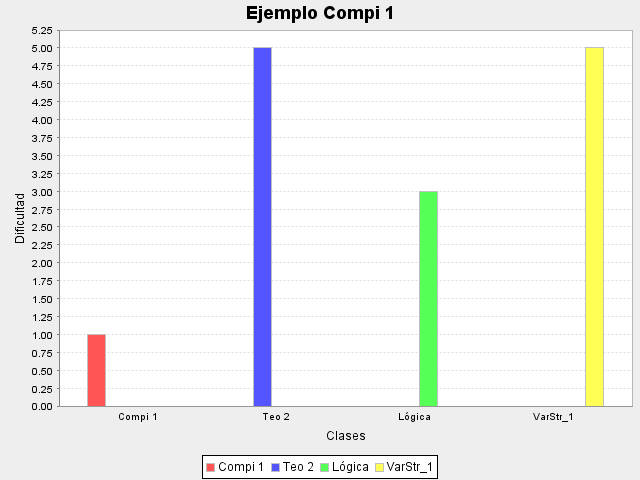
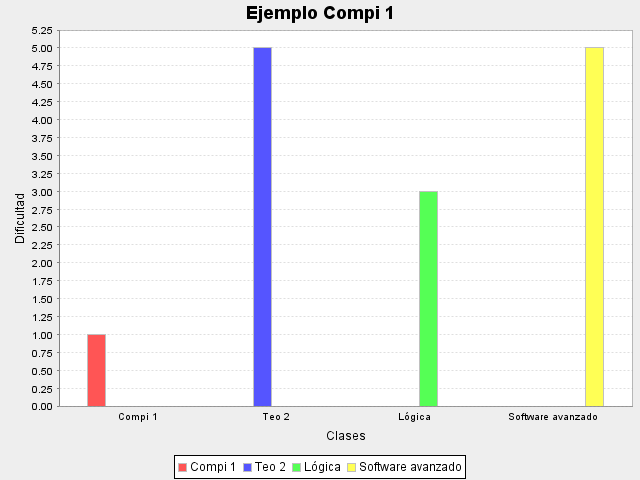
Reporte Tokens y Errores
Agregada la funcionalidad para reportar errores y tokens

Changed region(s): [[0.25, 0.9375, 0.7188, 1.0], [0.7812, 0.8438, 0.9375, 0.875]]

diff --git a/tokens.html b/tokens.html
@@ -1,0 +1,22 @@
+<!DOCTYPE html>
+<html>
+<head>
+<title>Reporte de Tokens</title>
+</head>
+<body>
+<h1 align="center">Reporte de Tokens</h1>
+<style type="text/css">
+.tg  {border-collapse:collapse;border-spacing:0;margin:0px auto;}
+.tg td{font-family:Arial, sans-serif;font-size:14px;padding:10px 5px;border-style:solid;border-width:1px;overflow:hidden;word-break:normal;border-color:black;}
+.tg th{font-family:Arial, sans-serif;font-size:14px;font-weight:normal;padding:10px 5px;border-style:solid;border-width:1px;overflow:hidden;word-break:normal;border-color:black;}
+.tg .tg-4tse{background-color:#32cb00;color:#000000;text-align:left;vertical-align:top}
+.tg .tg-0lax{text-align:left;vertical-align:top}
+h1{font-family:Arial, sans-serif}
+</style><table class="tg"><tr>
+<th class="tg-4tse">No</th>
+<th class="tg-4tse">Lexema</th>
+<th class="tg-4tse">Tipo</th>
+<th class="tg-4tse">Columna</th>
+<th class="tg-4tse">Linea</th>
+</tr><tr><td class="tg-0Lax">0<br></td><td Class="tg-0Lax">DefinirGlobales</td><td class="tg-0Lax">definirglobales</td><td Class="tg-0Lax">0</td><td class="tg-0Lax">0</td></tr><tr><td class="tg-0Lax">0<br></td><td Class="tg-0Lax">{</td><td class="tg-0Lax">llaveabre</td><td Class="tg-0Lax">0</td><td class="tg-0Lax">1</td></tr><tr><td class="tg-0Lax">0<br></td><td Class="tg-0Lax">int</td><td class="tg-0Lax">entero</td><td Class="tg-0Lax">4</td><td class="tg-0Lax">2</td></tr><tr><td class="tg-0Lax">0<br></td><td Class="tg-0Lax">a</td><td class="tg-0Lax">identificador</td><td Class="tg-0Lax">8</td><td class="tg-0Lax">2</td></tr><tr><td class="tg-0Lax">0<br></td><td Class="tg-0Lax">=</td><td class="tg-0Lax">igual</td><td Class="tg-0Lax">10</td><td class="tg-0Lax">2</td></tr><tr><td class="tg-0Lax">0<br></td><td Class="tg-0Lax">100</td><td class="tg-0Lax">numero100</td><td Class="tg-0Lax">12</td><td class="tg-0Lax">2</td></tr><tr><td class="tg-0Lax">0<br></td><td Class="tg-0Lax">;</td><td class="tg-0Lax">puntoycoma</td><td Class="tg-0Lax">15</td><td class="tg-0Lax">2</td></tr><tr><td class="tg-0Lax">0<br></td><td Class="tg-0Lax">string</td><td class="tg-0Lax">str</td><td Class="tg-0Lax">4</td><td class="tg-0Lax">3</td></tr><tr><td class="tg-0Lax">0<br></td><td Class="tg-0Lax">var1</td><td class="tg-0Lax">identificador</td><td Class="tg-0Lax">11</td><td class="tg-0Lax">3</td></tr><tr><td class="tg-0Lax">0<br></td><td Class="tg-0Lax">=</td><td class="tg-0Lax">igual</td><td Class="tg-0Lax">16</td><td class="tg-0Lax">3</td></tr><tr><td class="tg-0Lax">0<br></td><td Class="tg-0Lax">"</td><td class="tg-0Lax">comillaabre</td><td Class="tg-0Lax">18</td><td class="tg-0Lax">3</td></tr><tr><td class="tg-0Lax">0<br></td><td Class="tg-0Lax">Ejemplo Compi 1</td><td class="tg-0Lax">cadena</td><td Class="tg-0Lax">34</td><td class="tg-0Lax">3</td></tr><tr><td class="tg-0Lax">0<br></td><td Class="tg-0Lax">"</td><td class="tg-0Lax">comillacierra</td><td Class="tg-0Lax">34</td><td class="tg-0Lax">3</td></tr><tr><td class="tg-0Lax">0<br></td><td Class="tg-0Lax">;</td><td class="tg-0Lax">puntoycoma</td><td Class="tg-0Lax">35</td><td class="tg-0Lax">3</td></tr><tr><td class="tg-0Lax">0<br></td><td Class="tg-0Lax">string</td><td class="tg-0Lax">str</td><td Class="tg-0Lax">4</td><td class="tg-0Lax">4</td></tr><tr><td class="tg-0Lax">0<br></td><td Class="tg-0Lax">varString1</td><td class="tg-0Lax">identificador</td><td Class="tg-0Lax">11</td><td class="tg-0Lax">4</td></tr><tr><td class="tg-0Lax">0<br></td><td Class="tg-0Lax">=</td><td class="tg-0Lax">igual</td><td Class="tg-0Lax">22</td><td class="tg-0Lax">4</td></tr><tr><td class="tg-0Lax">0<br></td><td Class="tg-0Lax">"</td><td class="tg-0Lax">comillaabre</td><td Class="tg-0Lax">24</td><td class="tg-0Lax">4</td></tr><tr><td class="tg-0Lax">0<br></td><td Class="tg-0Lax">Dificultad</td><td class="tg-0Lax">cadena</td><td Class="tg-0Lax">35</td><td class="tg-0Lax">4</td></tr><tr><td class="tg-0Lax">0<br></td><td Class="tg-0Lax">"</td><td class="tg-0Lax">comillacierra</td><td Class="tg-0Lax">35</td><td class="tg-0Lax">4</td></tr><tr><td class="tg-0Lax">0<br></td><td Class="tg-0Lax">;</td><td class="tg-0Lax">puntoycoma</td><td Class="tg-0Lax">36</td><td class="tg-0Lax">4</td></tr><tr><td class="tg-0Lax">0<br></td><td Class="tg-0Lax">int</td><td class="tg-0Lax">entero</td><td Class="tg-0Lax">4</td><td class="tg-0Lax">5</td></tr><tr><td class="tg-0Lax">0<br></td><td Class="tg-0Lax">Variable1</td><td class="tg-0Lax">identificador</td><td Class="tg-0Lax">8</td><td class="tg-0Lax">5</td></tr><tr><td class="tg-0Lax">0<br></td><td Class="tg-0Lax">=</td><td class="tg-0Lax">igual</td><td Class="tg-0Lax">18</td><td class="tg-0Lax">5</td></tr><tr><td class="tg-0Lax">0<br></td><td Class="tg-0Lax">4</td><td class="tg-0Lax">numero4</td><td Class="tg-0Lax">20</td><td class="tg-0Lax">5</td></tr><tr><td class="tg-0Lax">0<br></td><td Class="tg-0Lax">*</td><td class="tg-0Lax">multiplicacion</td><td Class="tg-0Lax">21</td><td class="tg-0Lax">5</td></tr><tr><td class="tg-0Lax">0<br></td><td Class="tg-0Lax">5</td><td class="tg-0Lax">numero5</td><td Class="tg-0Lax">22</td><td class="tg-0Lax">5</td></tr><tr><td class="tg-0Lax">0<br></td><td Class="tg-0Lax">;</td><td class="tg-0Lax">puntoycoma</td><td Class="tg-0Lax">23</td><td class="tg-0Lax">5</td></tr><tr><td class="tg-0Lax">0<br></td><td Class="tg-0Lax">string</td><td class="tg-0Lax">str</td><td Class="tg-0Lax">4</td><td class="tg-0Lax">6</td></tr><tr><td class="tg-0Lax">0<br></td><td Class="tg-0Lax">VarStr_1</td><td class="tg-0Lax">identificador</td><td Class="tg-0Lax">11</td><td class="tg-0Lax">6</td></tr><tr><td class="tg-0Lax">0<br></td><td Class="tg-0Lax">=</td><td class="tg-0Lax">igual</td><td Class="tg-0Lax">20</td><td class="tg-0Lax">6</td></tr><tr><td class="tg-0Lax">0<br></td><td Class="tg-0Lax">"</td><td class="tg-0Lax">comillaabre</td><td Class="tg-0Lax">22</td><td class="tg-0Lax">6</td></tr><tr><td class="tg-0Lax">0<br></td><td Class="tg-0Lax">Software avanzado</td><td class="tg-0Lax">cadena</td><td Class="tg-0Lax">40</td><td class="tg-0Lax">6</td></tr><tr><td class="tg-0Lax">0<br></td><td Class="tg-0Lax">"</td><td class="tg-0Lax">comillacierra</td><td Class="tg-0Lax">40</td><td class="tg-0Lax">6</td></tr><tr><td class="tg-0Lax">0<br></td><td Class="tg-0Lax">;</td><td class="tg-0Lax">puntoycoma</td><td Class="tg-0Lax">41</td><td class="tg-0Lax">6</td></tr><tr><td class="tg-0Lax">0<br></td><td Class="tg-0Lax">}</td><td class="tg-0Lax">llavecierra</td><td Class="tg-0Lax">0</td><td class="tg-0Lax">7</td></tr><tr><td class="tg-0Lax">0<br></td><td Class="tg-0Lax">GraficaBarras</td><td class="tg-0Lax">graficabarras</td><td Class="tg-0Lax">0</td><td class="tg-0Lax">9</td></tr><tr><td class="tg-0Lax">0<br></td><td Class="tg-0Lax">{</td><td class="tg-0Lax">llaveabre</td><td Class="tg-0Lax">0</td><td class="tg-0Lax">10</td></tr><tr><td class="tg-0Lax">0<br></td><td Class="tg-0Lax">ID</td><td class="tg-0Lax">id</td><td Class="tg-0Lax">4</td><td class="tg-0Lax">11</td></tr><tr><td class="tg-0Lax">0<br></td><td Class="tg-0Lax">:</td><td class="tg-0Lax">dospuntos</td><td Class="tg-0Lax">6</td><td class="tg-0Lax">11</td></tr><tr><td class="tg-0Lax">0<br></td><td Class="tg-0Lax">"</td><td class="tg-0Lax">comillaabre</td><td Class="tg-0Lax">8</td><td class="tg-0Lax">11</td></tr><tr><td class="tg-0Lax">0<br></td><td Class="tg-0Lax">Prueba1.PNG</td><td class="tg-0Lax">cadena</td><td Class="tg-0Lax">20</td><td class="tg-0Lax">11</td></tr><tr><td class="tg-0Lax">0<br></td><td Class="tg-0Lax">"</td><td class="tg-0Lax">comillacierra</td><td Class="tg-0Lax">20</td><td class="tg-0Lax">11</td></tr><tr><td class="tg-0Lax">0<br></td><td Class="tg-0Lax">;</td><td class="tg-0Lax">puntoycoma</td><td Class="tg-0Lax">21</td><td class="tg-0Lax">11</td></tr><tr><td class="tg-0Lax">0<br></td><td Class="tg-0Lax">Titulo</td><td class="tg-0Lax">titulo</td><td Class="tg-0Lax">4</td><td class="tg-0Lax">12</td></tr><tr><td class="tg-0Lax">0<br></td><td Class="tg-0Lax">:</td><td class="tg-0Lax">dospuntos</td><td Class="tg-0Lax">10</td><td class="tg-0Lax">12</td></tr><tr><td class="tg-0Lax">0<br></td><td Class="tg-0Lax">"</td><td class="tg-0Lax">comillaabre</td><td Class="tg-0Lax">12</td><td class="tg-0Lax">12</td></tr><tr><td class="tg-0Lax">0<br></td><td Class="tg-0Lax">Es Prueba</td><td class="tg-0Lax">cadena</td><td Class="tg-0Lax">22</td><td class="tg-0Lax">12</td></tr><tr><td class="tg-0Lax">0<br></td><td Class="tg-0Lax">"</td><td class="tg-0Lax">comillacierra</td><td Class="tg-0Lax">22</td><td class="tg-0Lax">12</td></tr><tr><td class="tg-0Lax">0<br></td><td Class="tg-0Lax">;</td><td class="tg-0Lax">puntoycoma</td><td Class="tg-0Lax">23</td><td class="tg-0Lax">12</td></tr><tr><td class="tg-0Lax">0<br></td><td Class="tg-0Lax">TituloY</td><td class="tg-0Lax">tituloy</td><td Class="tg-0Lax">4</td><td class="tg-0Lax">13</td></tr><tr><td class="tg-0Lax">0<br></td><td Class="tg-0Lax">:</td><td class="tg-0Lax">dospuntos</td><td Class="tg-0Lax">11</td><td class="tg-0Lax">13</td></tr><tr><td class="tg-0Lax">0<br></td><td Class="tg-0Lax">"</td><td class="tg-0Lax">comillaabre</td><td Class="tg-0Lax">13</td><td class="tg-0Lax">13</td></tr><tr><td class="tg-0Lax">0<br></td><td Class="tg-0Lax">Eje Y</td><td class="tg-0Lax">cadena</td><td Class="tg-0Lax">19</td><td class="tg-0Lax">13</td></tr><tr><td class="tg-0Lax">0<br></td><td Class="tg-0Lax">"</td><td class="tg-0Lax">comillacierra</td><td Class="tg-0Lax">19</td><td class="tg-0Lax">13</td></tr><tr><td class="tg-0Lax">0<br></td><td Class="tg-0Lax">;</td><td class="tg-0Lax">puntoycoma</td><td Class="tg-0Lax">20</td><td class="tg-0Lax">13</td></tr><tr><td class="tg-0Lax">0<br></td><td Class="tg-0Lax">TituloX</td><td class="tg-0Lax">titulox</td><td Class="tg-0Lax">4</td><td class="tg-0Lax">14</td></tr><tr><td class="tg-0Lax">0<br></td><td Class="tg-0Lax">:</td><td class="tg-0Lax">dospuntos</td><td Class="tg-0Lax">11</td><td class="tg-0Lax">14</td></tr><tr><td class="tg-0Lax">0<br></td><td Class="tg-0Lax">"</td><td class="tg-0Lax">comillaabre</td><td Class="tg-0Lax">13</td><td class="tg-0Lax">14</td></tr><tr><td class="tg-0Lax">0<br></td><td Class="tg-0Lax">Eje X</td><td class="tg-0Lax">cadena</td><td Class="tg-0Lax">19</td><td class="tg-0Lax">14</td></tr><tr><td class="tg-0Lax">0<br></td><td Class="tg-0Lax">"</td><td class="tg-0Lax">comillacierra</td><td Class="tg-0Lax">19</td><td class="tg-0Lax">14</td></tr><tr><td class="tg-0Lax">0<br></td><td Class="tg-0Lax">;</td><td class="tg-0Lax">puntoycoma</td><td Class="tg-0Lax">20</td><td class="tg-0Lax">14</td></tr><tr><td class="tg-0Lax">0<br></td><td Class="tg-0Lax">ejeX</td><td class="tg-0Lax">ejex</td><td Class="tg-0Lax">4</td><td class="tg-0Lax">15</td></tr><tr><td class="tg-0Lax">0<br></td><td Class="tg-0Lax">:</td><td class="tg-0Lax">dospuntos</td><td Class="tg-0Lax">8</td><td class="tg-0Lax">15</td></tr><tr><td class="tg-0Lax">0<br></td><td Class="tg-0Lax">[</td><td class="tg-0Lax">corcheteabre</td><td Class="tg-0Lax">10</td><td class="tg-0Lax">15</td></tr><tr><td class="tg-0Lax">0<br></td><td Class="tg-0Lax">"</td><td class="tg-0Lax">comillaabre</td><td Class="tg-0Lax">11</td><td class="tg-0Lax">15</td></tr><tr><td class="tg-0Lax">0<br></td><td Class="tg-0Lax">X1</td><td class="tg-0Lax">cadena</td><td Class="tg-0Lax">14</td><td class="tg-0Lax">15</td></tr><tr><td class="tg-0Lax">0<br></td><td Class="tg-0Lax">"</td><td class="tg-0Lax">comillacierra</td><td Class="tg-0Lax">14</td><td class="tg-0Lax">15</td></tr><tr><td class="tg-0Lax">0<br></td><td Class="tg-0Lax">,</td><td class="tg-0Lax">coma</td><td Class="tg-0Lax">15</td><td class="tg-0Lax">15</td></tr><tr><td class="tg-0Lax">0<br></td><td Class="tg-0Lax">"</td><td class="tg-0Lax">comillaabre</td><td Class="tg-0Lax">17</td><td class="tg-0Lax">15</td></tr><tr><td class="tg-0Lax">0<br></td><td Class="tg-0Lax">X2</td><td class="tg-0Lax">cadena</td><td Class="tg-0Lax">20</td><td class="tg-0Lax">15</td></tr><tr><td class="tg-0Lax">0<br></td><td Class="tg-0Lax">"</td><td class="tg-0Lax">comillacierra</td><td Class="tg-0Lax">20</td><td class="tg-0Lax">15</td></tr><tr><td class="tg-0Lax">0<br></td><td Class="tg-0Lax">,</td><td class="tg-0Lax">coma</td><td Class="tg-0Lax">21</td><td class="tg-0Lax">15</td></tr><tr><td class="tg-0Lax">0<br></td><td Class="tg-0Lax">"</td><td class="tg-0Lax">comillaabre</td><td Class="tg-0Lax">23</td><td class="tg-0Lax">15</td></tr><tr><td class="tg-0Lax">0<br></td><td Class="tg-0Lax">X3</td><td class="tg-0Lax">cadena</td><td Class="tg-0Lax">26</td><td class="tg-0Lax">15</td></tr><tr><td class="tg-0Lax">0<br></td><td Class="tg-0Lax">"</td><td class="tg-0Lax">comillacierra</td><td Class="tg-0Lax">26</td><td class="tg-0Lax">15</td></tr><tr><td class="tg-0Lax">0<br></td><td Class="tg-0Lax">,</td><td class="tg-0Lax">coma</td><td Class="tg-0Lax">27</td><td class="tg-0Lax">15</td></tr><tr><td class="tg-0Lax">0<br></td><td Class="tg-0Lax">"</td><td class="tg-0Lax">comillaabre</td><td Class="tg-0Lax">29</td><td class="tg-0Lax">15</td></tr><tr><td class="tg-0Lax">0<br></td><td Class="tg-0Lax">Xk</td><td class="tg-0Lax">cadena</td><td Class="tg-0Lax">32</td><td class="tg-0Lax">15</td></tr><tr><td class="tg-0Lax">0<br></td><td Class="tg-0Lax">"</td><td class="tg-0Lax">comillacierra</td><td Class="tg-0Lax">32</td><td class="tg-0Lax">15</td></tr><tr><td class="tg-0Lax">0<br></td><td Class="tg-0Lax">]</td><td class="tg-0Lax">corchetecierra</td><td Class="tg-0Lax">33</td><td class="tg-0Lax">15</td></tr><tr><td class="tg-0Lax">0<br></td><td Class="tg-0Lax">;</td><td class="tg-0Lax">puntoycoma</td><td Class="tg-0Lax">34</td><td class="tg-0Lax">15</td></tr><tr><td class="tg-0Lax">0<br></td><td Class="tg-0Lax">EjeY</td><td class="tg-0Lax">ejey</td><td Class="tg-0Lax">4</td><td class="tg-0Lax">16</td></tr><tr><td class="tg-0Lax">0<br></td><td Class="tg-0Lax">:</td><td class="tg-0Lax">dospuntos</td><td Class="tg-0Lax">8</td><td class="tg-0Lax">16</td></tr><tr><td class="tg-0Lax">0<br></td><td Class="tg-0Lax">[</td><td class="tg-0Lax">corcheteabre</td><td Class="tg-0Lax">10</td><td class="tg-0Lax">16</td></tr><tr><td class="tg-0Lax">0<br></td><td Class="tg-0Lax">5</td><td class="tg-0Lax">numero5</td><td Class="tg-0Lax">11</td><td class="tg-0Lax">16</td></tr><tr><td class="tg-0Lax">0<br></td><td Class="tg-0Lax">,</td><td class="tg-0Lax">coma</td><td Class="tg-0Lax">12</td><td class="tg-0Lax">16</td></tr><tr><td class="tg-0Lax">0<br></td><td Class="tg-0Lax">10</td><td class="tg-0Lax">numero10</td><td Class="tg-0Lax">14</td><td class="tg-0Lax">16</td></tr><tr><td class="tg-0Lax">0<br></td><td Class="tg-0Lax">,</td><td class="tg-0Lax">coma</td><td Class="tg-0Lax">16</td><td class="tg-0Lax">16</td></tr><tr><td class="tg-0Lax">0<br></td><td Class="tg-0Lax">15</td><td class="tg-0Lax">numero15</td><td Class="tg-0Lax">18</td><td class="tg-0Lax">16</td></tr><tr><td class="tg-0Lax">0<br></td><td Class="tg-0Lax">,</td><td class="tg-0Lax">coma</td><td Class="tg-0Lax">20</td><td class="tg-0Lax">16</td></tr><tr><td class="tg-0Lax">0<br></td><td Class="tg-0Lax">20</td><td class="tg-0Lax">numero20</td><td Class="tg-0Lax">22</td><td class="tg-0Lax">16</td></tr><tr><td class="tg-0Lax">0<br></td><td Class="tg-0Lax">,</td><td class="tg-0Lax">coma</td><td Class="tg-0Lax">24</td><td class="tg-0Lax">16</td></tr><tr><td class="tg-0Lax">0<br></td><td Class="tg-0Lax">25</td><td class="tg-0Lax">numero25</td><td Class="tg-0Lax">26</td><td class="tg-0Lax">16</td></tr><tr><td class="tg-0Lax">0<br></td><td Class="tg-0Lax">,</td><td class="tg-0Lax">coma</td><td Class="tg-0Lax">28</td><td class="tg-0Lax">16</td></tr><tr><td class="tg-0Lax">0<br></td><td Class="tg-0Lax">30</td><td class="tg-0Lax">numero30</td><td Class="tg-0Lax">30</td><td class="tg-0Lax">16</td></tr><tr><td class="tg-0Lax">0<br></td><td Class="tg-0Lax">]</td><td class="tg-0Lax">corchetecierra</td><td Class="tg-0Lax">32</td><td class="tg-0Lax">16</td></tr><tr><td class="tg-0Lax">0<br></td><td Class="tg-0Lax">;</td><td class="tg-0Lax">puntoycoma</td><td Class="tg-0Lax">33</td><td class="tg-0Lax">16</td></tr><tr><td class="tg-0Lax">0<br></td><td Class="tg-0Lax">Puntosxy</td><td class="tg-0Lax">puntosxy</td><td Class="tg-0Lax">4</td><td class="tg-0Lax">17</td></tr><tr><td class="tg-0Lax">0<br></td><td Class="tg-0Lax">:</td><td class="tg-0Lax">dospuntos</td><td Class="tg-0Lax">12</td><td class="tg-0Lax">17</td></tr><tr><td class="tg-0Lax">0<br></td><td Class="tg-0Lax">[</td><td class="tg-0Lax">corcheteabre</td><td Class="tg-0Lax">14</td><td class="tg-0Lax">17</td></tr><tr><td class="tg-0Lax">0<br></td><td Class="tg-0Lax">{</td><td class="tg-0Lax">llaveabre</td><td Class="tg-0Lax">15</td><td class="tg-0Lax">17</td></tr><tr><td class="tg-0Lax">0<br></td><td Class="tg-0Lax">0</td><td class="tg-0Lax">numero0</td><td Class="tg-0Lax">16</td><td class="tg-0Lax">17</td></tr><tr><td class="tg-0Lax">0<br></td><td Class="tg-0Lax">,</td><td class="tg-0Lax">coma</td><td Class="tg-0Lax">17</td><td class="tg-0Lax">17</td></tr><tr><td class="tg-0Lax">0<br></td><td Class="tg-0Lax">2</td><td class="tg-0Lax">numero2</td><td Class="tg-0Lax">18</td><td class="tg-0Lax">17</td></tr><tr><td class="tg-0Lax">0<br></td><td Class="tg-0Lax">}</td><td class="tg-0Lax">llavecierra</td><td Class="tg-0Lax">19</td><td class="tg-0Lax">17</td></tr><tr><td class="tg-0Lax">0<br></td><td Class="tg-0Lax">,</td><td class="tg-0Lax">coma</td><td Class="tg-0Lax">20</td><td class="tg-0Lax">17</td></tr><tr><td class="tg-0Lax">0<br></td><td Class="tg-0Lax">{</td><td class="tg-0Lax">llaveabre</td><td Class="tg-0Lax">22</td><td class="tg-0Lax">17</td></tr><tr><td class="tg-0Lax">0<br></td><td Class="tg-0Lax">1</td><td class="tg-0Lax">numero1</td><td Class="tg-0Lax">23</td><td class="tg-0Lax">17</td></tr><tr><td class="tg-0Lax">0<br></td><td Class="tg-0Lax">,</td><td class="tg-0Lax">coma</td><td Class="tg-0Lax">24</td><td class="tg-0Lax">17</td></tr><tr><td class="tg-0Lax">0<br></td><td Class="tg-0Lax">3</td><td class="tg-0Lax">numero3</td><td Class="tg-0Lax">25</td><td class="tg-0Lax">17</td></tr><tr><td class="tg-0Lax">0<br></td><td Class="tg-0Lax">}</td><td class="tg-0Lax">llavecierra</td><td Class="tg-0Lax">26</td><td class="tg-0Lax">17</td></tr><tr><td class="tg-0Lax">0<br></td><td Class="tg-0Lax">,</td><td class="tg-0Lax">coma</td><td Class="tg-0Lax">27</td><td class="tg-0Lax">17</td></tr><tr><td class="tg-0Lax">0<br></td><td Class="tg-0Lax">{</td><td class="tg-0Lax">llaveabre</td><td Class="tg-0Lax">29</td><td class="tg-0Lax">17</td></tr><tr><td class="tg-0Lax">0<br></td><td Class="tg-0Lax">2</td><td class="tg-0Lax">numero2</td><td Class="tg-0Lax">30</td><td class="tg-0Lax">17</td></tr><tr><td class="tg-0Lax">0<br></td><td Class="tg-0Lax">,</td><td class="tg-0Lax">coma</td><td Class="tg-0Lax">31</td><td class="tg-0Lax">17</td></tr><tr><td class="tg-0Lax">0<br></td><td Class="tg-0Lax">0</td><td class="tg-0Lax">numero0</td><td Class="tg-0Lax">33</td><td class="tg-0Lax">17</td></tr><tr><td class="tg-0Lax">0<br></td><td Class="tg-0Lax">}</td><td class="tg-0Lax">llavecierra</td><td Class="tg-0Lax">34</td><td class="tg-0Lax">17</td></tr><tr><td class="tg-0Lax">0<br></td><td Class="tg-0Lax">,</td><td class="tg-0Lax">coma</td><td Class="tg-0Lax">35</td><td class="tg-0Lax">17</td></tr><tr><td class="tg-0Lax">0<br></td><td Class="tg-0Lax">{</td><td class="tg-0Lax">llaveabre</td><td Class="tg-0Lax">36</td><td class="tg-0Lax">17</td></tr><tr><td class="tg-0Lax">0<br></td><td Class="tg-0Lax">3</td><td class="tg-0Lax">numero3</td><td Class="tg-0Lax">37</td><td class="tg-0Lax">17</td></tr><tr><td class="tg-0Lax">0<br></td><td Class="tg-0Lax">,</td><td class="tg-0Lax">coma</td><td Class="tg-0Lax">38</td><td class="tg-0Lax">17</td></tr><tr><td class="tg-0Lax">0<br></td><td Class="tg-0Lax">5</td><td class="tg-0Lax">numero5</td><td Class="tg-0Lax">39</td><td class="tg-0Lax">17</td></tr><tr><td class="tg-0Lax">0<br></td><td Class="tg-0Lax">}</td><td class="tg-0Lax">llavecierra</td><td Class="tg-0Lax">40</td><td class="tg-0Lax">17</td></tr><tr><td class="tg-0Lax">0<br></td><td Class="tg-0Lax">]</td><td class="tg-0Lax">corchetecierra</td><td Class="tg-0Lax">41</td><td class="tg-0Lax">17</td></tr><tr><td class="tg-0Lax">0<br></td><td Class="tg-0Lax">;</td><td class="tg-0Lax">puntoycoma</td><td Class="tg-0Lax">42</td><td class="tg-0Lax">17</td></tr><tr><td class="tg-0Lax">0<br></td><td Class="tg-0Lax">}</td><td class="tg-0Lax">llavecierra</td><td Class="tg-0Lax">0</td><td class="tg-0Lax">18</td></tr><tr><td class="tg-0Lax">0<br></td><td Class="tg-0Lax">GraficaBarras</td><td class="tg-0Lax">graficabarras</td><td Class="tg-0Lax">0</td><td class="tg-0Lax">20</td></tr><tr><td class="tg-0Lax">0<br></td><td Class="tg-0Lax">{</td><td class="tg-0Lax">llaveabre</td><td Class="tg-0Lax">0</td><td class="tg-0Lax">21</td></tr><tr><td class="tg-0Lax">0<br></td><td Class="tg-0Lax">ID</td><td class="tg-0Lax">id</td><td Class="tg-0Lax">4</td><td class="tg-0Lax">22</td></tr><tr><td class="tg-0Lax">0<br></td><td Class="tg-0Lax">:</td><td class="tg-0Lax">dospuntos</td><td Class="tg-0Lax">6</td><td class="tg-0Lax">22</td></tr><tr><td class="tg-0Lax">0<br></td><td Class="tg-0Lax">"</td><td class="tg-0Lax">comillaabre</td><td Class="tg-0Lax">8</td><td class="tg-0Lax">22</td></tr><tr><td class="tg-0Lax">0<br></td><td Class="tg-0Lax">GraficaResultados.PNG</td><td class="tg-0Lax">cadena</td><td Class="tg-0Lax">30</td><td class="tg-0Lax">22</td></tr><tr><td class="tg-0Lax">0<br></td><td Class="tg-0Lax">"</td><td class="tg-0Lax">comillacierra</td><td Class="tg-0Lax">30</td><td class="tg-0Lax">22</td></tr><tr><td class="tg-0Lax">0<br></td><td Class="tg-0Lax">;</td><td class="tg-0Lax">puntoycoma</td><td Class="tg-0Lax">31</td><td class="tg-0Lax">22</td></tr><tr><td class="tg-0Lax">0<br></td><td Class="tg-0Lax">Nombre</td><td class="tg-0Lax">nombre</td><td Class="tg-0Lax">34</td><td class="tg-0Lax">22</td></tr></body>
+</html>

diff --git a/errores.html b/errores.html
@@ -1,0 +1,22 @@
+<!DOCTYPE html>
+<html>
+<head>
+<title>Reporte de Errores</title>
+</head>
+<body>
+<h1 align="center">Reporte de Errores</h1>
+<style type="text/css">
+.tg  {border-collapse:collapse;border-spacing:0;margin:0px auto;}
+.tg td{font-family:Arial, sans-serif;font-size:14px;padding:10px 5px;border-style:solid;border-width:1px;overflow:hidden;word-break:normal;border-color:black;}
+.tg th{font-family:Arial, sans-serif;font-size:14px;font-weight:normal;padding:10px 5px;border-style:solid;border-width:1px;overflow:hidden;word-break:normal;border-color:black;}
+.tg .tg-4tse{background-color:#cb0d00;color:#000000;text-align:left;vertical-align:top}
+.tg .tg-0lax{text-align:left;vertical-align:top}
+h1{font-family:Arial, sans-serif}
+</style><table class="tg"><tr>
+<th class="tg-4tse">No</th>
+<th class="tg-4tse">Lexema</th>
+<th class="tg-4tse">Tipo</th>
+<th class="tg-4tse">Columna</th>
+<th class="tg-4tse">Linea</th>
+</tr><tr><td class="tg-0Lax">0<br></td><td Class="tg-0Lax">Nombre</td><td class="tg-0Lax">ERROR SINTACTICO - NO SE ESPERABA ESTE SIMBOLO</td><td Class="tg-0Lax">36</td><td class="tg-0Lax">22</td></tr><tr><td class="tg-0Lax">0<br></td><td Class="tg-0Lax">Nombre</td><td class="tg-0Lax">ERROR SINTACTICO IRRECUPERABLE - SIMBOLO NO RECONODIO</td><td Class="tg-0Lax">36</td><td class="tg-0Lax">22</td></tr></body>
+</html>

diff --git a/src/sistema/graficas/GraficarTokens.java b/src/sistema/graficas/GraficarTokens.java
@@ -1,0 +1,67 @@
+/*
+ * To change this license header, choose License Headers in Project Properties.
+ * To change this template file, choose Tools | Templates
+ * and open the template in the editor.
+ */
+package sistema.graficas;
+
+import java.io.BufferedWriter;
+import java.io.FileWriter;
+import main.Main;
+import sistema.bean.Token;
+
+/**
+ *
+ * @author bruno
+ */
+public class GraficarTokens {
+    public void graficarListaTokens(){
+        try{
+            if(Main.tokens.size() != 0){
+                BufferedWriter writer = new BufferedWriter(new FileWriter("tokens.html", false));
+                writer.write("<!DOCTYPE html>\n<html>\n<head>\n<title>Reporte de Tokens</title>\n</head>\n<body>\n<h1 align=\"center\">Reporte de Tokens</h1>\n<style type=\"text/css\">\n.tg  {border-collapse:collapse;border-spacing:0;margin:0px auto;}\n.tg td{font-family:Arial, sans-serif;font-size:14px;padding:10px 5px;border-style:solid;border-width:1px;overflow:hidden;word-break:normal;border-color:black;}\n.tg th{font-family:Arial, sans-serif;font-size:14px;font-weight:normal;padding:10px 5px;border-style:solid;border-width:1px;overflow:hidden;word-break:normal;border-color:black;}\n.tg .tg-4tse{background-color:#32cb00;color:#000000;text-align:left;vertical-align:top}\n.tg .tg-0lax{text-align:left;vertical-align:top}\nh1{font-family:Arial, sans-serif}\n</style>");
+                writer.write("<table class=\"tg\">");
+                writer.write("<tr>\n<th class=\"tg-4tse\">No</th>\n<th class=\"tg-4tse\">Lexema</th>\n<th class=\"tg-4tse\">Tipo</th>\n<th class=\"tg-4tse\">Columna</th>\n<th class=\"tg-4tse\">Linea</th>\n</tr>");
+                int i = 0;
+                for (Token token : Main.tokens) {
+                    writer.write("<tr>");
+                    writer.write("<td class=\"tg-0Lax\">" + i++ + "<br></td>");
+                    writer.write("<td Class=\"tg-0Lax\">" + token.getLexema() + "</td>");
+                    writer.write("<td class=\"tg-0Lax\">" + token.getTipo() + "</td>");
+                    writer.write("<td Class=\"tg-0Lax\">" + token.getColumna() + "</td>");
+                    writer.write("<td class=\"tg-0Lax\">" + token.getFila() + "</td>");
+                    writer.write("</tr>");
+                }
+                writer.write("</body>\n</html>");
+                writer.close();
+                String [] cmd = {"cmd.exe", "/c", "start", "tokens.html" };
+                Runtime.getRuntime().exec(cmd);
+            }
+        }catch(Exception ex){System.out.println("Error Graficando Tokens...");}
+    }
+    
+    public void graficarListaErrores(){
+        try{
+            if(Main.errores.size() != 0){
+                BufferedWriter writer = new BufferedWriter(new FileWriter("errores.html", false));
+                writer.write("<!DOCTYPE html>\n<html>\n<head>\n<title>Reporte de Errores</title>\n</head>\n<body>\n<h1 align=\"center\">Reporte de Errores</h1>\n<style type=\"text/css\">\n.tg  {border-collapse:collapse;border-spacing:0;margin:0px auto;}\n.tg td{font-family:Arial, sans-serif;font-size:14px;padding:10px 5px;border-style:solid;border-width:1px;overflow:hidden;word-break:normal;border-color:black;}\n.tg th{font-family:Arial, sans-serif;font-size:14px;font-weight:normal;padding:10px 5px;border-style:solid;border-width:1px;overflow:hidden;word-break:normal;border-color:black;}\n.tg .tg-4tse{background-color:#cb0d00;color:#000000;text-align:left;vertical-align:top}\n.tg .tg-0lax{text-align:left;vertical-align:top}\nh1{font-family:Arial, sans-serif}\n</style>");
+                writer.write("<table class=\"tg\">");
+                writer.write("<tr>\n<th class=\"tg-4tse\">No</th>\n<th class=\"tg-4tse\">Lexema</th>\n<th class=\"tg-4tse\">Tipo</th>\n<th class=\"tg-4tse\">Columna</th>\n<th class=\"tg-4tse\">Linea</th>\n</tr>");
+                int i = 0;
+                for (Token token : Main.errores) {
+                    writer.write("<tr>");
+                    writer.write("<td class=\"tg-0Lax\">" + i + "<br></td>");
+                    writer.write("<td Class=\"tg-0Lax\">" + token.getLexema() + "</td>");
+                    writer.write("<td class=\"tg-0Lax\">" + token.getTipo() + "</td>");
+                    writer.write("<td Class=\"tg-0Lax\">" + token.getColumna() + "</td>");
+                    writer.write("<td class=\"tg-0Lax\">" + token.getFila() + "</td>");
+                    writer.write("</tr>");
+                }
+                writer.write("</body>\n</html>");
+                writer.close();
+                String [] cmd = {"cmd.exe", "/c", "start", "errores.html" };
+                Runtime.getRuntime().exec(cmd);
+            }
+        }catch(Exception ex){System.out.println("Error Graficando Errores...");}
+    }
+}

diff --git a/src/sistema/ui/VentanaPrincipal.java b/src/sistema/ui/VentanaPrincipal.java
@@ -22,6 +22,7 @@ import sistema.administracion.AdministracionArchivos;
 import sistema.analisis.scanner;
 import sistema.analisis.parser;
 import sistema.graficas.GraficarGBarras;
+import sistema.graficas.GraficarTokens;
 
 /**
  *
@@ -129,12 +130,15 @@ public class VentanaPrincipal extends javax.swing.JFrame {
     private void btnAnalizar(java.awt.event.ActionEvent evt){
         try {
             limpiarContenidoGlobal();
-            String abc = String.valueOf(Main.buscarVariableGlobal("a"));
             StringReader strReader = new StringReader(limpiarTexto(txtArea.getText())+"$");
             scanner scanner = new scanner(strReader);
             sistema.analisis.parser parser = new parser(scanner);
             parser.parse();
+            validarDatosGraficas();
             GraficarGBarras graficadorGBarras = new GraficarGBarras();
+            GraficarTokens graficarTokens = new GraficarTokens();
+            graficarTokens.graficarListaTokens();
+            graficarTokens.graficarListaErrores();
             if(Main.variablesGlobales.size() > 0){
                 Main.variablesGlobales.forEach((v) -> {
                     System.out.println(v.getIdentificador() + " | " + v.getTipo() + " | " + v.getValor());
@@ -164,6 +168,8 @@ public class VentanaPrincipal extends javax.swing.JFrame {
         Main.graficasDeBarras = new ArrayList<>();
         Main.graficasDeLineas = new ArrayList<>();
         Main.galerias = new ArrayList<>();
+        Main.tokens = new ArrayList<>();
+        Main.errores = new ArrayList<>();
     }
     
     private String limpiarTexto(String texto){
@@ -172,6 +178,10 @@ public class VentanaPrincipal extends javax.swing.JFrame {
         if(texto.contains("”"))
             texto = texto.replace('”', '\"');
         return texto;
+    }
+    
+    private void validarDatosGraficas(){
+        
     }
     
     private void btnAbrirArchivo(java.awt.event.ActionEvent evt){

diff --git a/src/sistema/bean/Token.java b/src/sistema/bean/Token.java
@@ -1,0 +1,59 @@
+/*
+ * To change this license header, choose License Headers in Project Properties.
+ * To change this template file, choose Tools | Templates
+ * and open the template in the editor.
+ */
+package sistema.bean;
+
+/**
+ *
+ * @author bruno
+ */
+public class Token {
+    private String lexema;
+    private String tipo;
+    private int fila;
+    private int columna;
+
+    public Token() {
+    }
+
+    public String getLexema() {
+        return lexema;
+    }
+
+    public void setLexema(String lexema) {
+        this.lexema = lexema;
+    }
+
+    public String getTipo() {
+        return tipo;
+    }
+
+    public void setTipo(String tipo) {
+        this.tipo = tipo;
+    }
+
+    public int getFila() {
+        return fila;
+    }
+
+    public void setFila(int fila) {
+        this.fila = fila;
+    }
+
+    public int getColumna() {
+        return columna;
+    }
+
+    public void setColumna(int columna) {
+        this.columna = columna;
+    }
+
+    public Token(String lexema, String tipo, int fila, int columna) {
+        this.lexema = lexema;
+        this.tipo = tipo;
+        this.fila = fila;
+        this.columna = columna;
+    }
+}

diff --git a/src/sistema/analisis/parser.java b/src/sistema/analisis/parser.java
@@ -11,6 +11,7 @@ import sistema.bean.GraficaBarras;
 import sistema.bean.GraficaLineas;
 import sistema.bean.Variable;
 import sistema.bean.XYLine;
+import sistema.bean.Token;
 import main.Main;
 import java_cup.runtime.XMLElement;
 
@@ -301,13 +302,13 @@ public class parser extends java_cup.runtime.lr_parser {
     private Galeria galeria = new Galeria();
 
     public void syntax_error(Symbol s){ 
-        //enviar a tabla
         System.err.println("Error Sintáctico en la Línea " + (s.left) +" Columna "+s.right+ ". No se esperaba este componente: " +s.value+"."); 
+        main.Main.errores.add(new Token(s.value.toString(), "ERROR SINTACTICO - NO SE ESPERABA ESTE SIMBOLO", s.left, s.right));
     } 
 
     public void unrecovered_syntax_error(Symbol s) throws java.lang.Exception{ 
-        //enviar a tabla
         System.err.println("Error síntactico irrecuperable en la Línea " + (s.left)+ " Columna "+s.right+". Componente " + s.value + " no reconocido.");
+        main.Main.errores.add(new Token(s.value.toString(), "ERROR SINTACTICO IRRECUPERABLE - SIMBOLO NO RECONODIO", s.left, s.right));
     }  
 
 

diff --git a/src/main/Main.java b/src/main/Main.java
@@ -9,6 +9,7 @@ import java.util.ArrayList;
 import sistema.bean.Galeria;
 import sistema.bean.GraficaBarras;
 import sistema.bean.GraficaLineas;
+import sistema.bean.Token;
 import sistema.bean.Variable;
 import sistema.ui.VentanaPrincipal;
 
@@ -17,6 +18,8 @@ import sistema.ui.VentanaPrincipal;
  * @author bruno
  */
 public class Main {
+    public static ArrayList<Token> tokens;
+    public static ArrayList<Token> errores;
     public static ArrayList<Variable> variablesGlobales;
     public static ArrayList<GraficaBarras> graficasDeBarras;
     public static ArrayList<GraficaLineas> graficasDeLineas;
